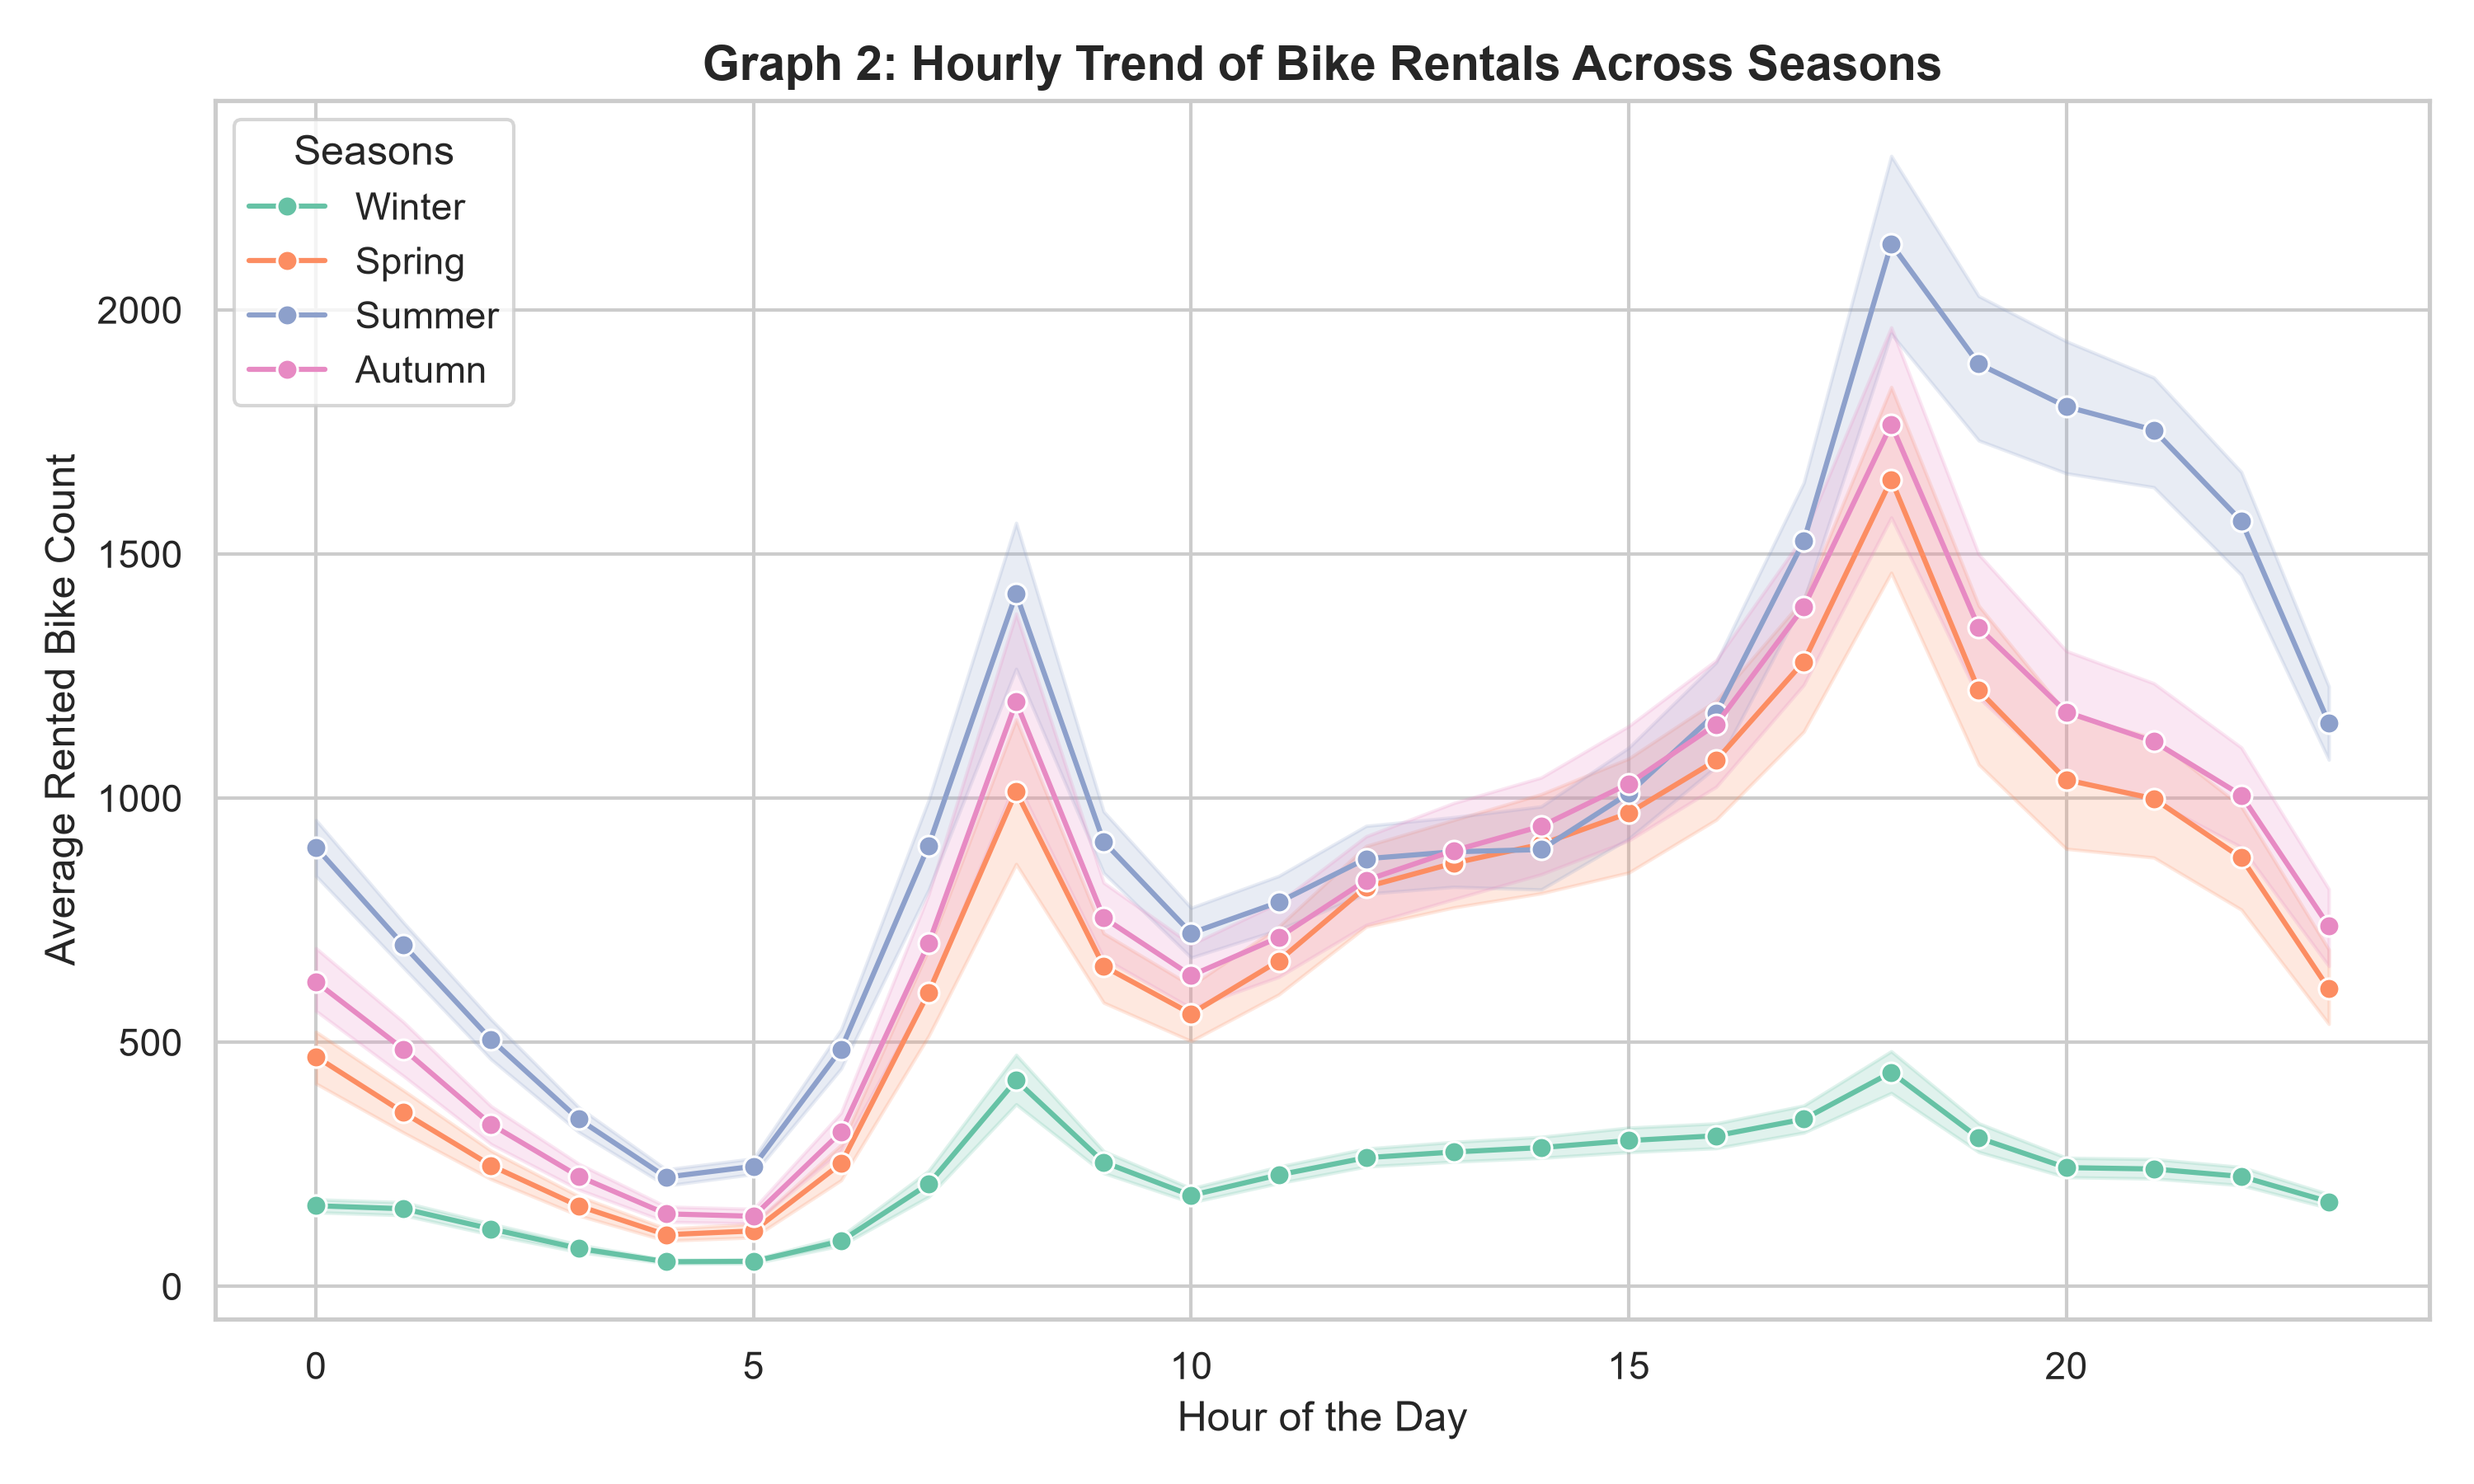
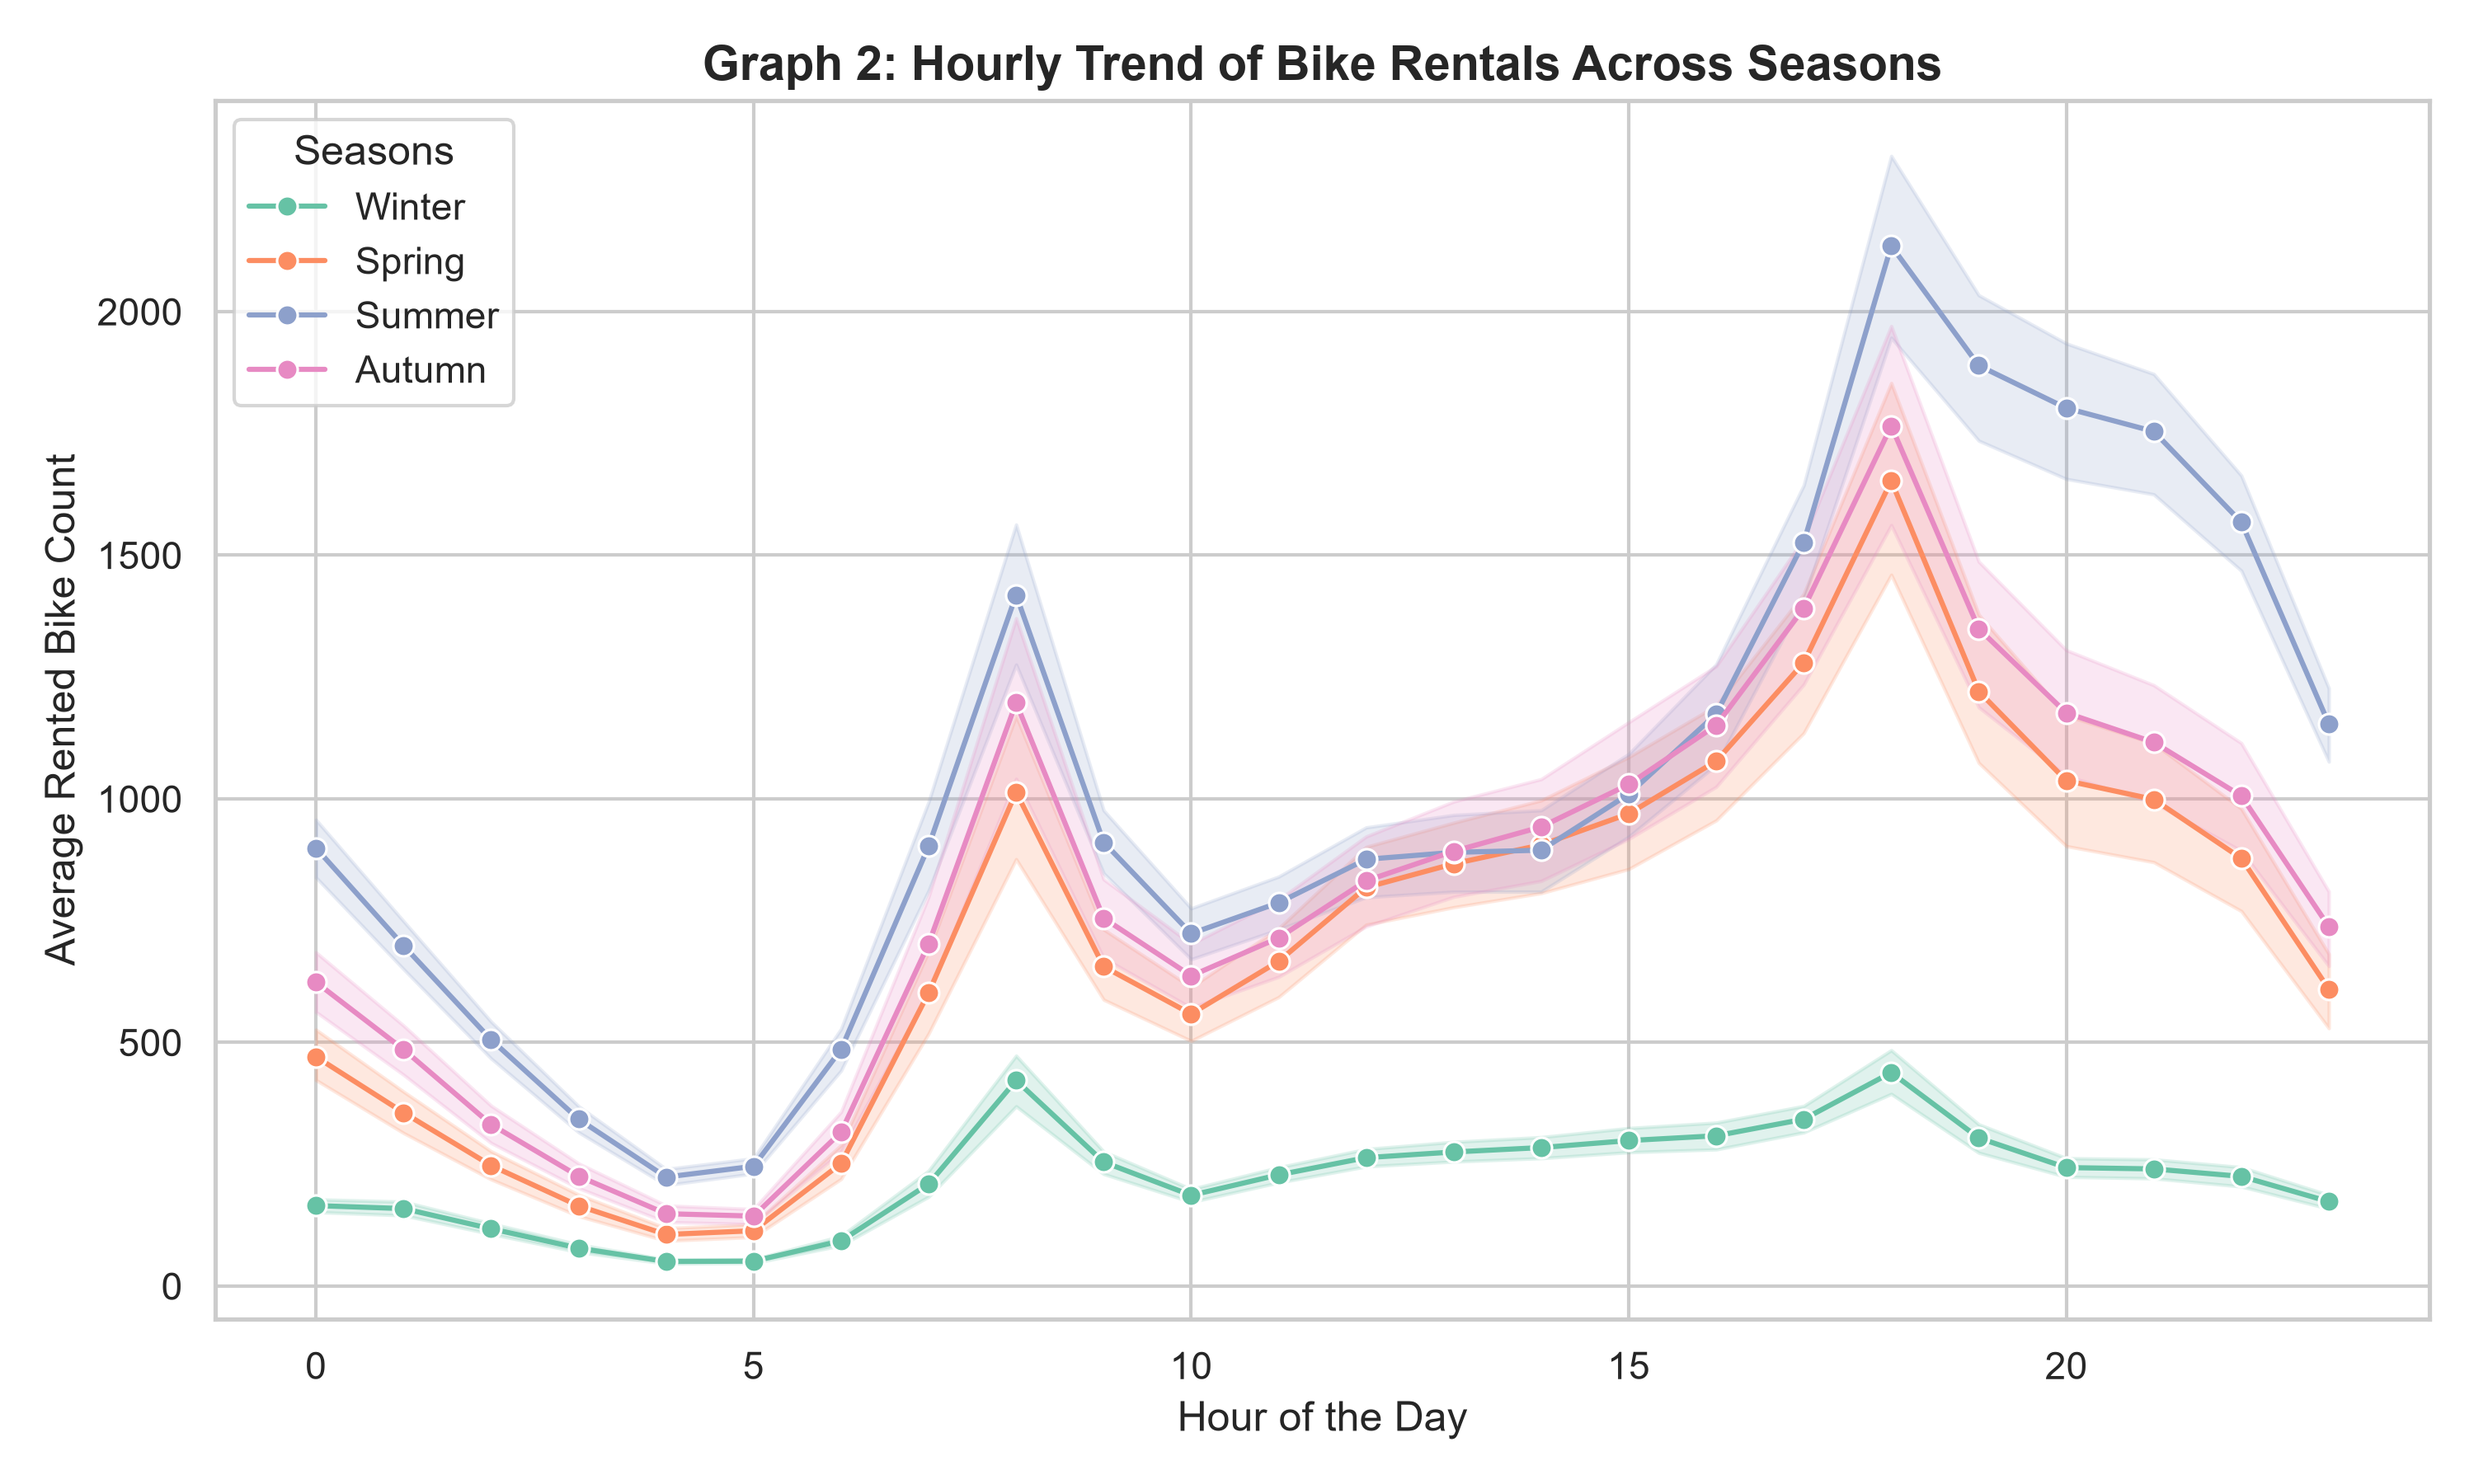
1

diff --git a/EDA.py b/EDA.py
@@ -119,4 +119,57 @@ plt.ylabel('Average Rented Bike Count', fontsize=12)
 plt.savefig('graphs/graph_10.png', dpi=300)
 plt.close()
 
+# --- GRAPH 11: Average Rented Bike Count by Month (Bar Chart) ---
+monthly_bar_df = df.groupby('Month')['Rented Bike Count'].mean().reset_index()
+plt.figure(figsize=(10, 6))
+sns.barplot(data=monthly_bar_df, x='Month', y='Rented Bike Count', palette='viridis')
+plt.title('Graph 11: Average Rented Bike Count by Month', fontsize=14, fontweight='bold')
+plt.xlabel('Month', fontsize=12)
+plt.ylabel('Average Rented Bike Count', fontsize=12)
+plt.xticks(range(0, 12), ['Jan', 'Feb', 'Mar', 'Apr', 'May', 'Jun', 'Jul', 'Aug', 'Sep', 'Oct', 'Nov', 'Dec'])
+plt.savefig('graphs/graph_11.png', dpi=300)
+plt.close()
+
+plt.figure(figsize=(8, 6))
+df['Rain_Status'] = df['Rainfall(mm)'].apply(lambda x: 'Rainy' if x > 0 else 'No Rain')
+rain_df = df.groupby('Rain_Status')['Rented Bike Count'].mean().reset_index()
+sns.barplot(data=rain_df, x='Rain_Status', y='Rented Bike Count', palette='coolwarm', order=['No Rain', 'Rainy'])
+plt.title('Graph 12: Average Bike Rentals by Rain Condition', fontsize=14, fontweight='bold')
+plt.xlabel('Rain Condition', fontsize=12)
+plt.ylabel('Average Rented Bike Count', fontsize=12)
+plt.savefig('graphs/graph_12.png', dpi=300)
+plt.close()
+
+# --- GRAPH 13: Average Bike Rentals by Holiday Status ---
+plt.figure(figsize=(8, 6))
+hol_df = df.groupby('Holiday')['Rented Bike Count'].mean().reset_index()
+sns.barplot(data=hol_df, x='Holiday', y='Rented Bike Count', palette='muted')
+plt.title('Graph 13: Average Bike Rentals by Holiday Status', fontsize=14, fontweight='bold')
+plt.xlabel('Holiday Status', fontsize=12)
+plt.ylabel('Average Rented Bike Count', fontsize=12)
+plt.savefig('graphs/graph_13.png', dpi=300)
+plt.close()
+
+# --- GRAPH 14: Average Rented Bike Count Across Humidity Ranges ---
+df['Humidity_Bin'] = pd.cut(df['Humidity(%)'], bins=[0, 20, 40, 60, 80, 100], labels=['0-20%', '21-40%', '41-60%', '61-80%', '81-100%'])
+hum_df = df.groupby('Humidity_Bin', observed=True)['Rented Bike Count'].mean().reset_index()
+plt.figure(figsize=(10, 6))
+sns.barplot(data=hum_df, x='Humidity_Bin', y='Rented Bike Count', palette='crest')
+plt.title('Graph 14: Average Rented Bike Count Across Humidity Levels', fontsize=14, fontweight='bold')
+plt.xlabel('Humidity Range', fontsize=12)
+plt.ylabel('Average Rented Bike Count', fontsize=12)
+plt.savefig('graphs/graph_14.png', dpi=300)
+plt.close()
+
+# --- GRAPH 15: Average Rented Bike Count Across Temperature Ranges ---
+df['Temp_Bin'] = pd.cut(df['Temperature(°C)'], bins=[-20, -10, 0, 10, 20, 30, 40], labels=['< -10°C', '-10 to 0°C', '0 to 10°C', '10 to 20°C', '20 to 30°C', '> 30°C'])
+temp_bin_df = df.groupby('Temp_Bin', observed=True)['Rented Bike Count'].mean().reset_index()
+plt.figure(figsize=(10, 6))
+sns.barplot(data=temp_bin_df, x='Temp_Bin', y='Rented Bike Count', palette='magma')
+plt.title('Graph 15: Average Rented Bike Count Across Temperature Ranges', fontsize=14, fontweight='bold')
+plt.xlabel('Temperature Range', fontsize=12)
+plt.ylabel('Average Rented Bike Count', fontsize=12)
+plt.savefig('graphs/graph_15.png', dpi=300)
+plt.close()
+
 print("All refined graphs successfully generated and saved to the 'graphs/' folder!")
